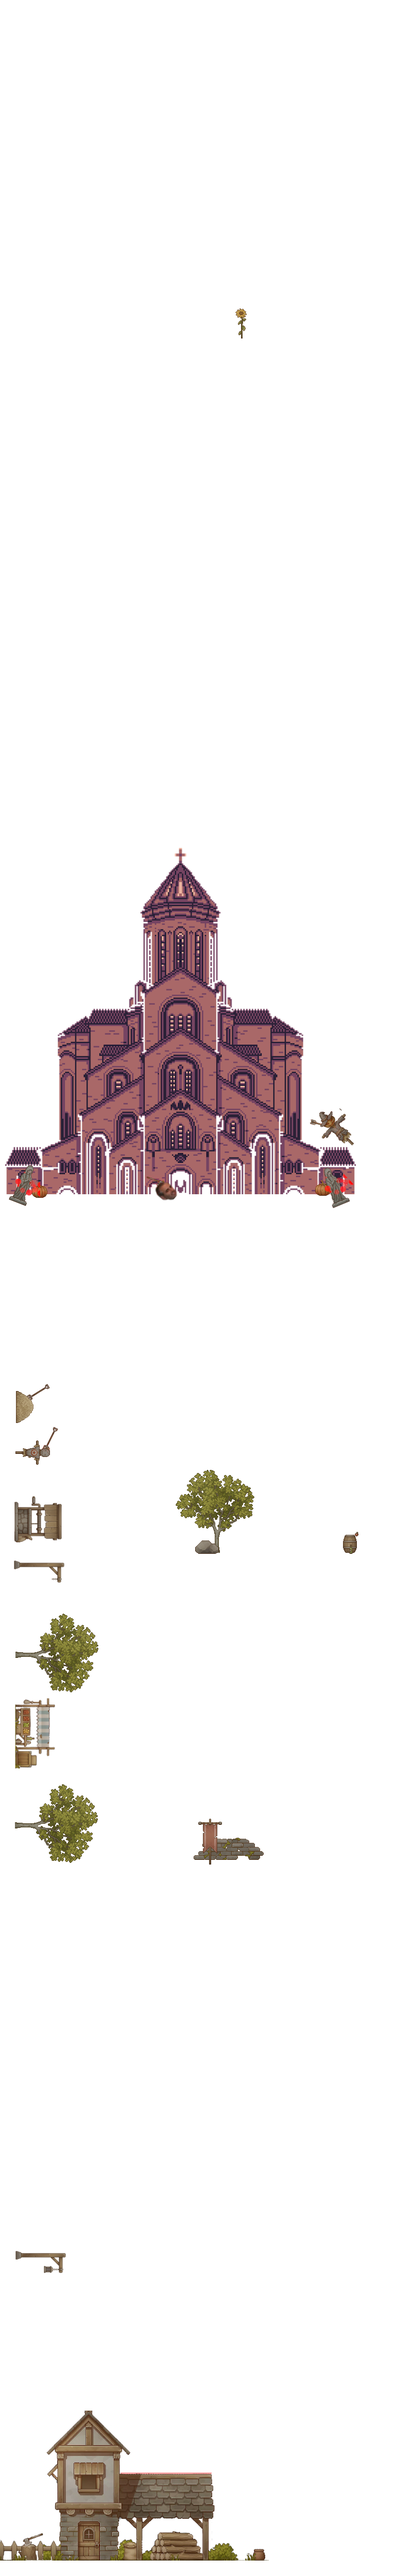
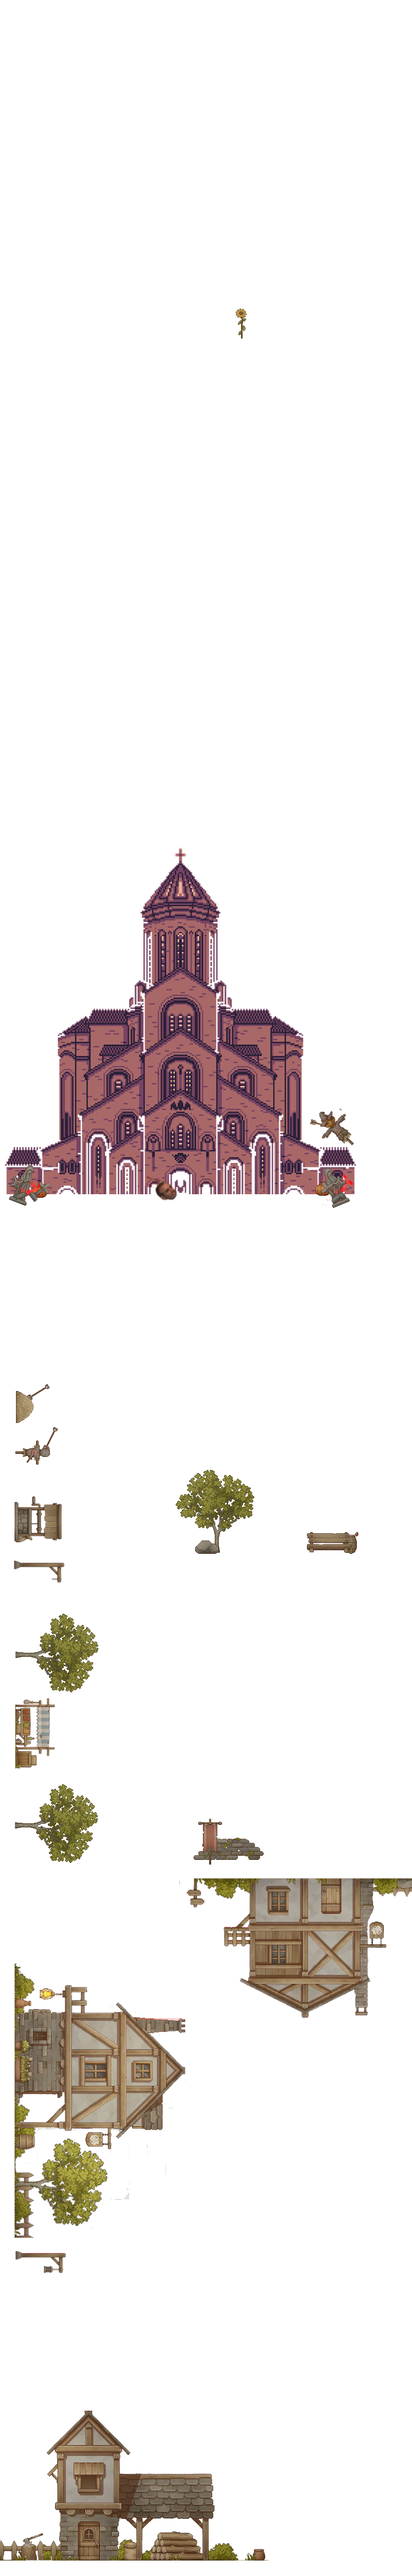
Plataforma movil y pared lateral.

diff --git a/js/nivelUno.js b/js/nivelUno.js
@@ -6,8 +6,9 @@ var cofreAbierto = false;
 
 var mainState={ 
 preload:function(){
-    game.load.image('fondo','assets/fondo.png');
-    game.load.image('fondo1','assets/objetosTransparentes.png');
+    game.load.image('fondo','assets/fondoColor.png');
+    game.load.image('objetos','assets/objetosTransparentes.png');
+    game.load.image('paredLateral','assets/paredLateral.png');
     game.load.image('suelos','assets/suelos.png');
     game.load.image('platUno','assets/platFina.png');
     game.load.image('platUnoRev','assets/platFinaRev.png');
@@ -24,7 +25,8 @@ preload:function(){
 create:function(){
 this.game.physics.startSystem(Phaser.Physics.ARCADE);
 this.fondo=game.add.sprite(0,0,'fondo');
-//this.fondo=game.add.sprite(0,0,'fondo1');
+this.objetos=game.add.sprite(0,0,'objetos');
+this.paredLateral = game.add.sprite(0, 0, 'paredLateral')
 this.plat = game.add.group()
 
 
@@ -45,9 +47,7 @@ this.plat.create(441,4485,'platUno');
 this.plat.create(303,4465,'platTres');
 this.plat.create(175,4418,'platTres');
 this.plat.create(185,4305,'platTres');
-this.plat.create(345,4270,'platTres');
-this.plat.create(446,4239,'platTres');
-//NS
+this.plat.create(320,4270,'platTres');
 this.plat.create(344,3831,'platTres');
 this.plat.create(220,3722,'platTres');
 this.plat.create(220,3722,'platTres');
@@ -83,18 +83,26 @@ this.plat.create(540, 658,'platDos');
 this.plat.create(630, 658,'platDos');
 this.plat.create(720, 658,'platDos');
 
+this.movil = game.add.sprite(400,4239,'platTres');
 
 this.portal = game.add.sprite(750, 3500, 'portal')
 this.bowser = game.add.sprite(650, 3500, 'bowser')
 this.cofre = game.add.sprite(390, 618, 'cofre')
-this.personaUno = game.add.sprite(200,600,'naruto');/////////////////////////////////////
-//this.personaDos = game.add.sprite(200,4900,'portal');/////////////////////////////////////
+this.personaUno = game.add.sprite(360,4176,'naruto');/////////////////////////////////////
+
 
 this.game.physics.arcade.enable(this.personaUno);
 this.game.physics.arcade.enable(this.suelos);
 
+this.game.physics.arcade.enable(this.movil)
+this.movil.enableBody = true
+this.movil.body.immovable = true
 
-//this.personaUno.body.gravity.y=1500;
+this.game.physics.arcade.enable(this.paredLateral)
+this.paredLateral.enableBody = true
+this.paredLateral.body.immovable = true
+
+this.personaUno.body.gravity.y=1500;
 this.personaUno.body.setSize(this.personaUno.width-20,this.personaUno.height-21,10,10);
 this.personaUno.body.collideWorldBounds = true;
 
@@ -130,16 +138,28 @@ this.cofre.animations.add('abierto',[1],10,true);
 },
 
 update:function(){
+
+if(this.movil.body.y > 4186){
+    this.movil.body.velocity.y = -100
+} else if(this.movil.body.y < 3900) {
+    this.movil.body.velocity.y = 100
+}
+
 saltoUno = 1
 
 this.game.camera.y = this.personaUno.body.y -300
 
+this.game.physics.arcade.collide(this.personaUno, this.paredLateral)
 
 this.game.physics.arcade.collide(this.personaUno,this.suelos,function() {
     saltoUno=1;
 });
 
 this.game.physics.arcade.collide(this.personaUno,this.plat,function() {
+    saltoUno=1;
+});
+
+this.game.physics.arcade.collide(this.personaUno,this.movil, function() {
     saltoUno=1;
 });
 
@@ -180,7 +200,7 @@ if (this.input.keyboard.isDown(Phaser.Keyboard.A)) {
     this.personaUno.body.velocity.y=700; 
 } else {
     this.personaUno.body.velocity.x=0;
-    this.personaUno.body.velocity.y=0;
+    //this.personaUno.body.velocity.y=0;
 
 }
 
